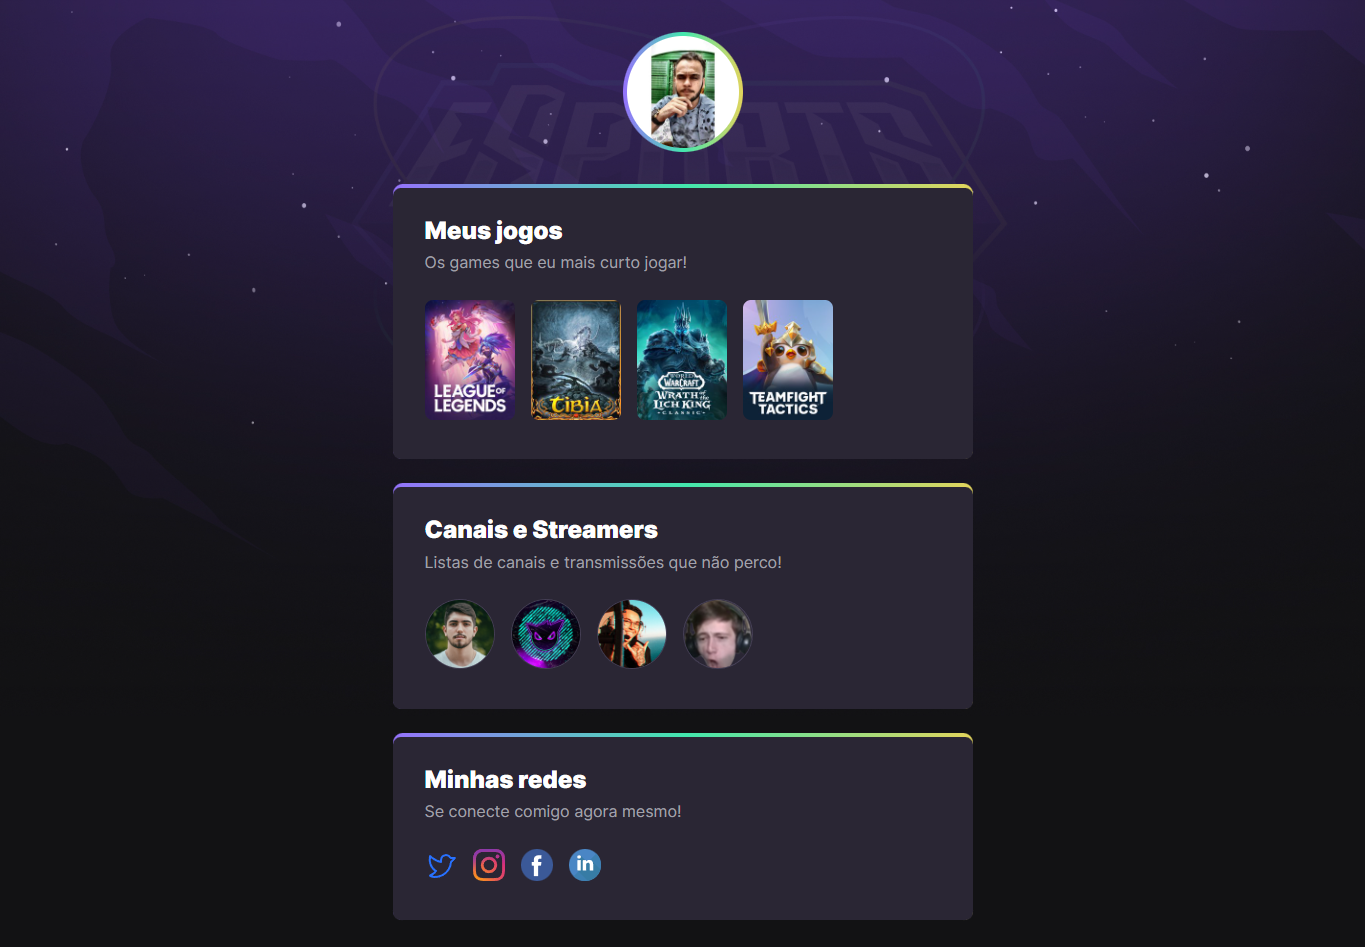
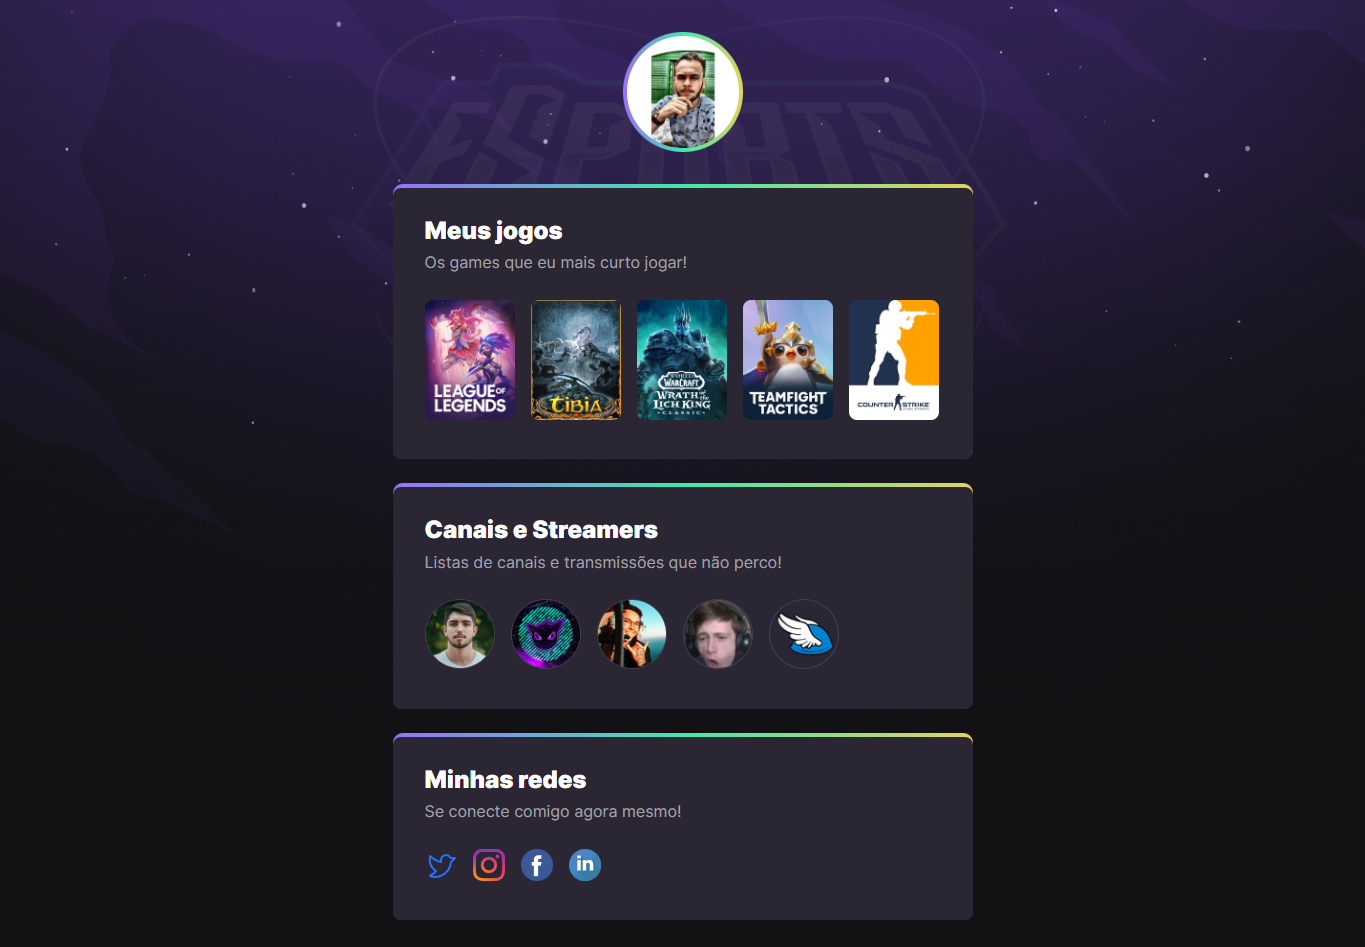
update

Changed region(s): [[0.6154, 0.3062, 0.7077, 0.4593], [0.5538, 0.6431, 0.6154, 0.7043]]

diff --git a/index.html b/index.html
@@ -68,7 +68,7 @@
                             <a 
                             target="_blank"
                             href="https://www.twitch.tv/directory/game/Counter-Strike%3A%20Global%20Offensive">
-                                <img src="https://static-cdn.jtvnw.net/ttv-boxart/32399_IGDB-188x250.jpg" alt="Imagem do jogo TeamFight Tactics">
+                                <img src="https://static-cdn.jtvnw.net/ttv-boxart/32399_IGDB-188x250.jpg" alt="Imagem do jogo Counter Strike">
                             </a>
                         </li>
 
